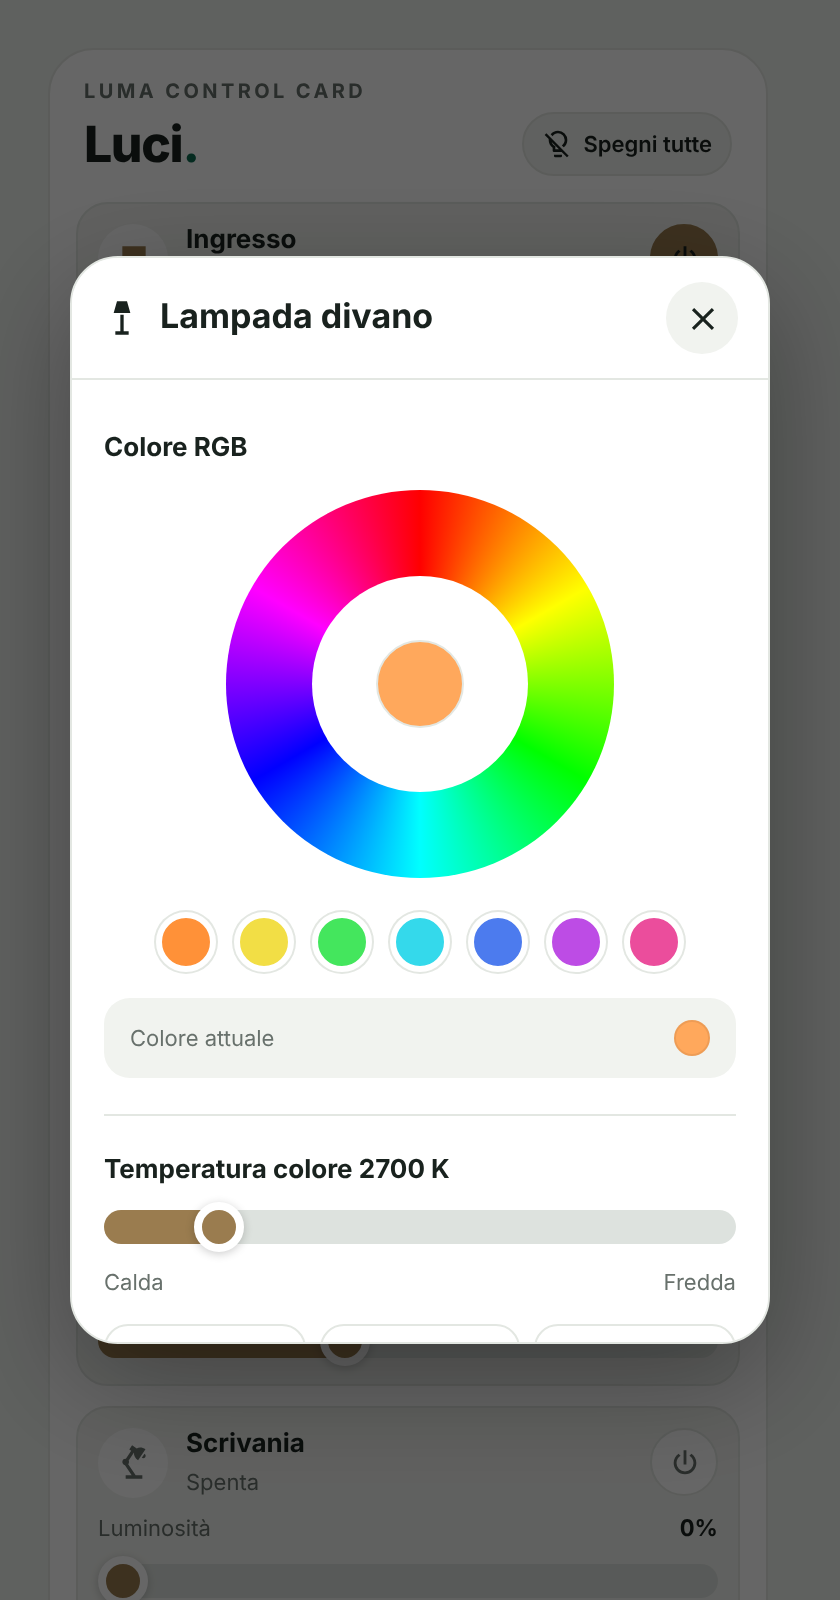
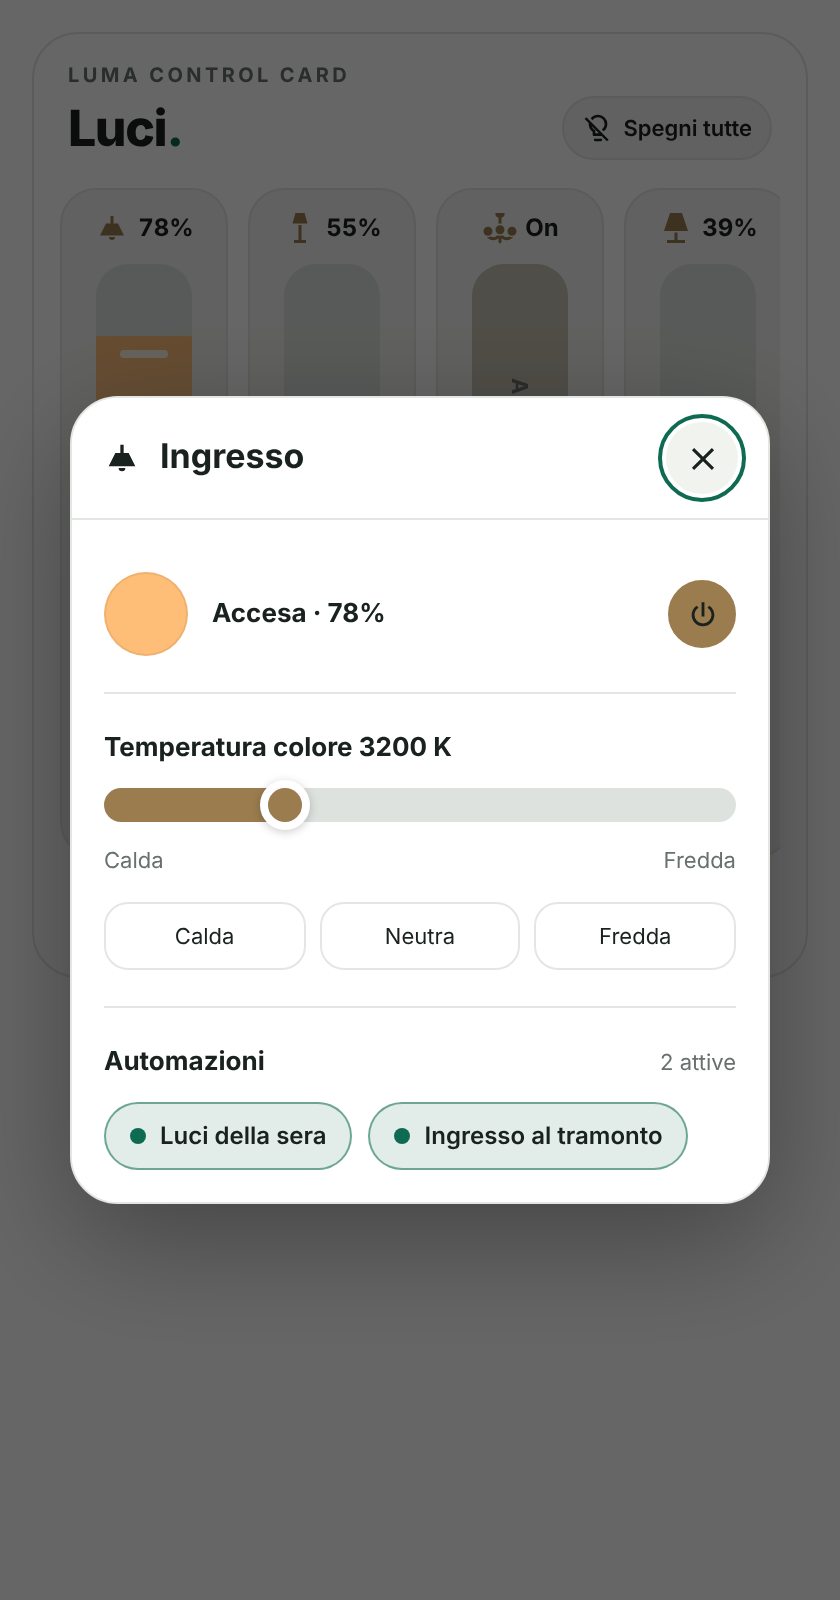
Update README and previews for the fader layout
- Describe vertical faders, details popup and per-light automations.
- Replace previews with the new interface (fictional demo data).

diff --git a/README.md b/README.md
@@ -9,7 +9,7 @@
 
 **Luma Control Card** is a custom lighting control card for Home Assistant dashboards, designed with a minimalist interface inspired by the Edera Light and Graphite Dark visual styles.
 
-It brings together multiple lights in a compact, responsive layout with brightness adjustments, RGB color selection, color temperature controls, and optional automation and timer management.
+It shows multiple lights as vertical brightness faders in a compact, responsive layout. Color, color temperature, timer, and automations for each light are available in its details popup.
 
 The card uses existing Home Assistant entities and services. No dedicated account, paid API, additional cloud service, or Edera theme installation is required.
 
@@ -19,20 +19,20 @@ The card uses existing Home Assistant entities and services. No dedicated accoun
 | --- | --- |
 | ![Luma Control Card in Light mode](assets/luma-control-card-light.png) | ![Luma Control Card in Dark mode](assets/luma-control-card-dark.png) |
 
-![Luma Control Card color and temperature popup, Light mode](assets/luma-control-card-popup-light.png)
+![Luma Control Card details popup in Light mode](assets/luma-control-card-popup-light.png)
 
 *Previews use fictional demo data. Available controls depend on the configured lighting entities and their supported capabilities. The interface text is currently in Italian.*
 
 ## Features
 
-- Compact, responsive lighting grid with configurable layout.
-- Individual on/off controls for `light.*` entities.
-- Brightness adjustment for compatible lights.
-- RGB color wheel with quick color presets.
-- Adjustable color temperature with warm, neutral, and cool presets.
+- Vertical brightness faders, one per `light.*` entity, with a dedicated on/off button.
+- Tapping a fader never changes the level: brightness changes only by dragging, and a light is never turned on by accident.
+- Navigation arrows when the lights do not fit the available width.
+- Details popup for each light with status, RGB color wheel and presets, color temperature, optional timer, and its automations.
+- Per-light automations with individual enable/disable controls.
+- Optional card-level automation buttons below the lights.
+- Optional ambient glow, and options to hide the header eyebrow and the title.
 - Turn off all configured lights with one command.
-- Multiple Home Assistant automations with individual enable/disable controls.
-- Optional timer controls for individual lights.
 - Automatic, Edera Light, and Graphite Dark appearance modes.
 - Visual configuration editor with entity selection, reordering, customization, and removal.
 - Responsive popups optimized for desktop, tablet, and smartphone.
@@ -80,22 +80,22 @@ If you prefer to add the repository manually:
 
 The visual editor includes four sections:
 
-- **Devices:** Select `light.*` entities, customize names and optional MDI icons, reorder devices, or remove them.
-- **Appearance:** Configure the title, header, theme, and grid layout.
-- **Automations:** Associate multiple existing `automation.*` entities and manage their enabled state.
+- **Devices:** Select `light.*` entities, customize names and optional MDI icons, reorder devices, assign automations to each light, or remove them.
+- **Appearance:** Configure the title, header, theme, and ambient glow.
+- **Automations:** Optionally associate existing `automation.*` entities as buttons on the card.
 - **Advanced:** Enable or disable the card's controls.
 
 ### Lighting Controls
 
-Each configured light displays the controls supported by its Home Assistant integration.
+Each light is shown as a vertical fader. Drag it to set the brightness, or use the arrow keys when it is focused. Tapping the fader does not change the level. Use the power button below it to turn the light on or off.
 
-Brightness, RGB color, and color temperature controls are displayed only when available.
+**Details and status** opens the details popup, where color, color temperature, timer, and the light's automations are available when supported by the light and the configuration.
 
 The **Turn off all** button switches off the configured lights without disabling their associated automations.
 
 ### Automations
 
-Existing Home Assistant automations can be enabled or disabled directly from the card.
+Existing Home Assistant automations can be enabled or disabled from the details popup of each light, or from optional buttons on the card.
 
 The card does not create automations or immediately execute their actions when enabled.
 
